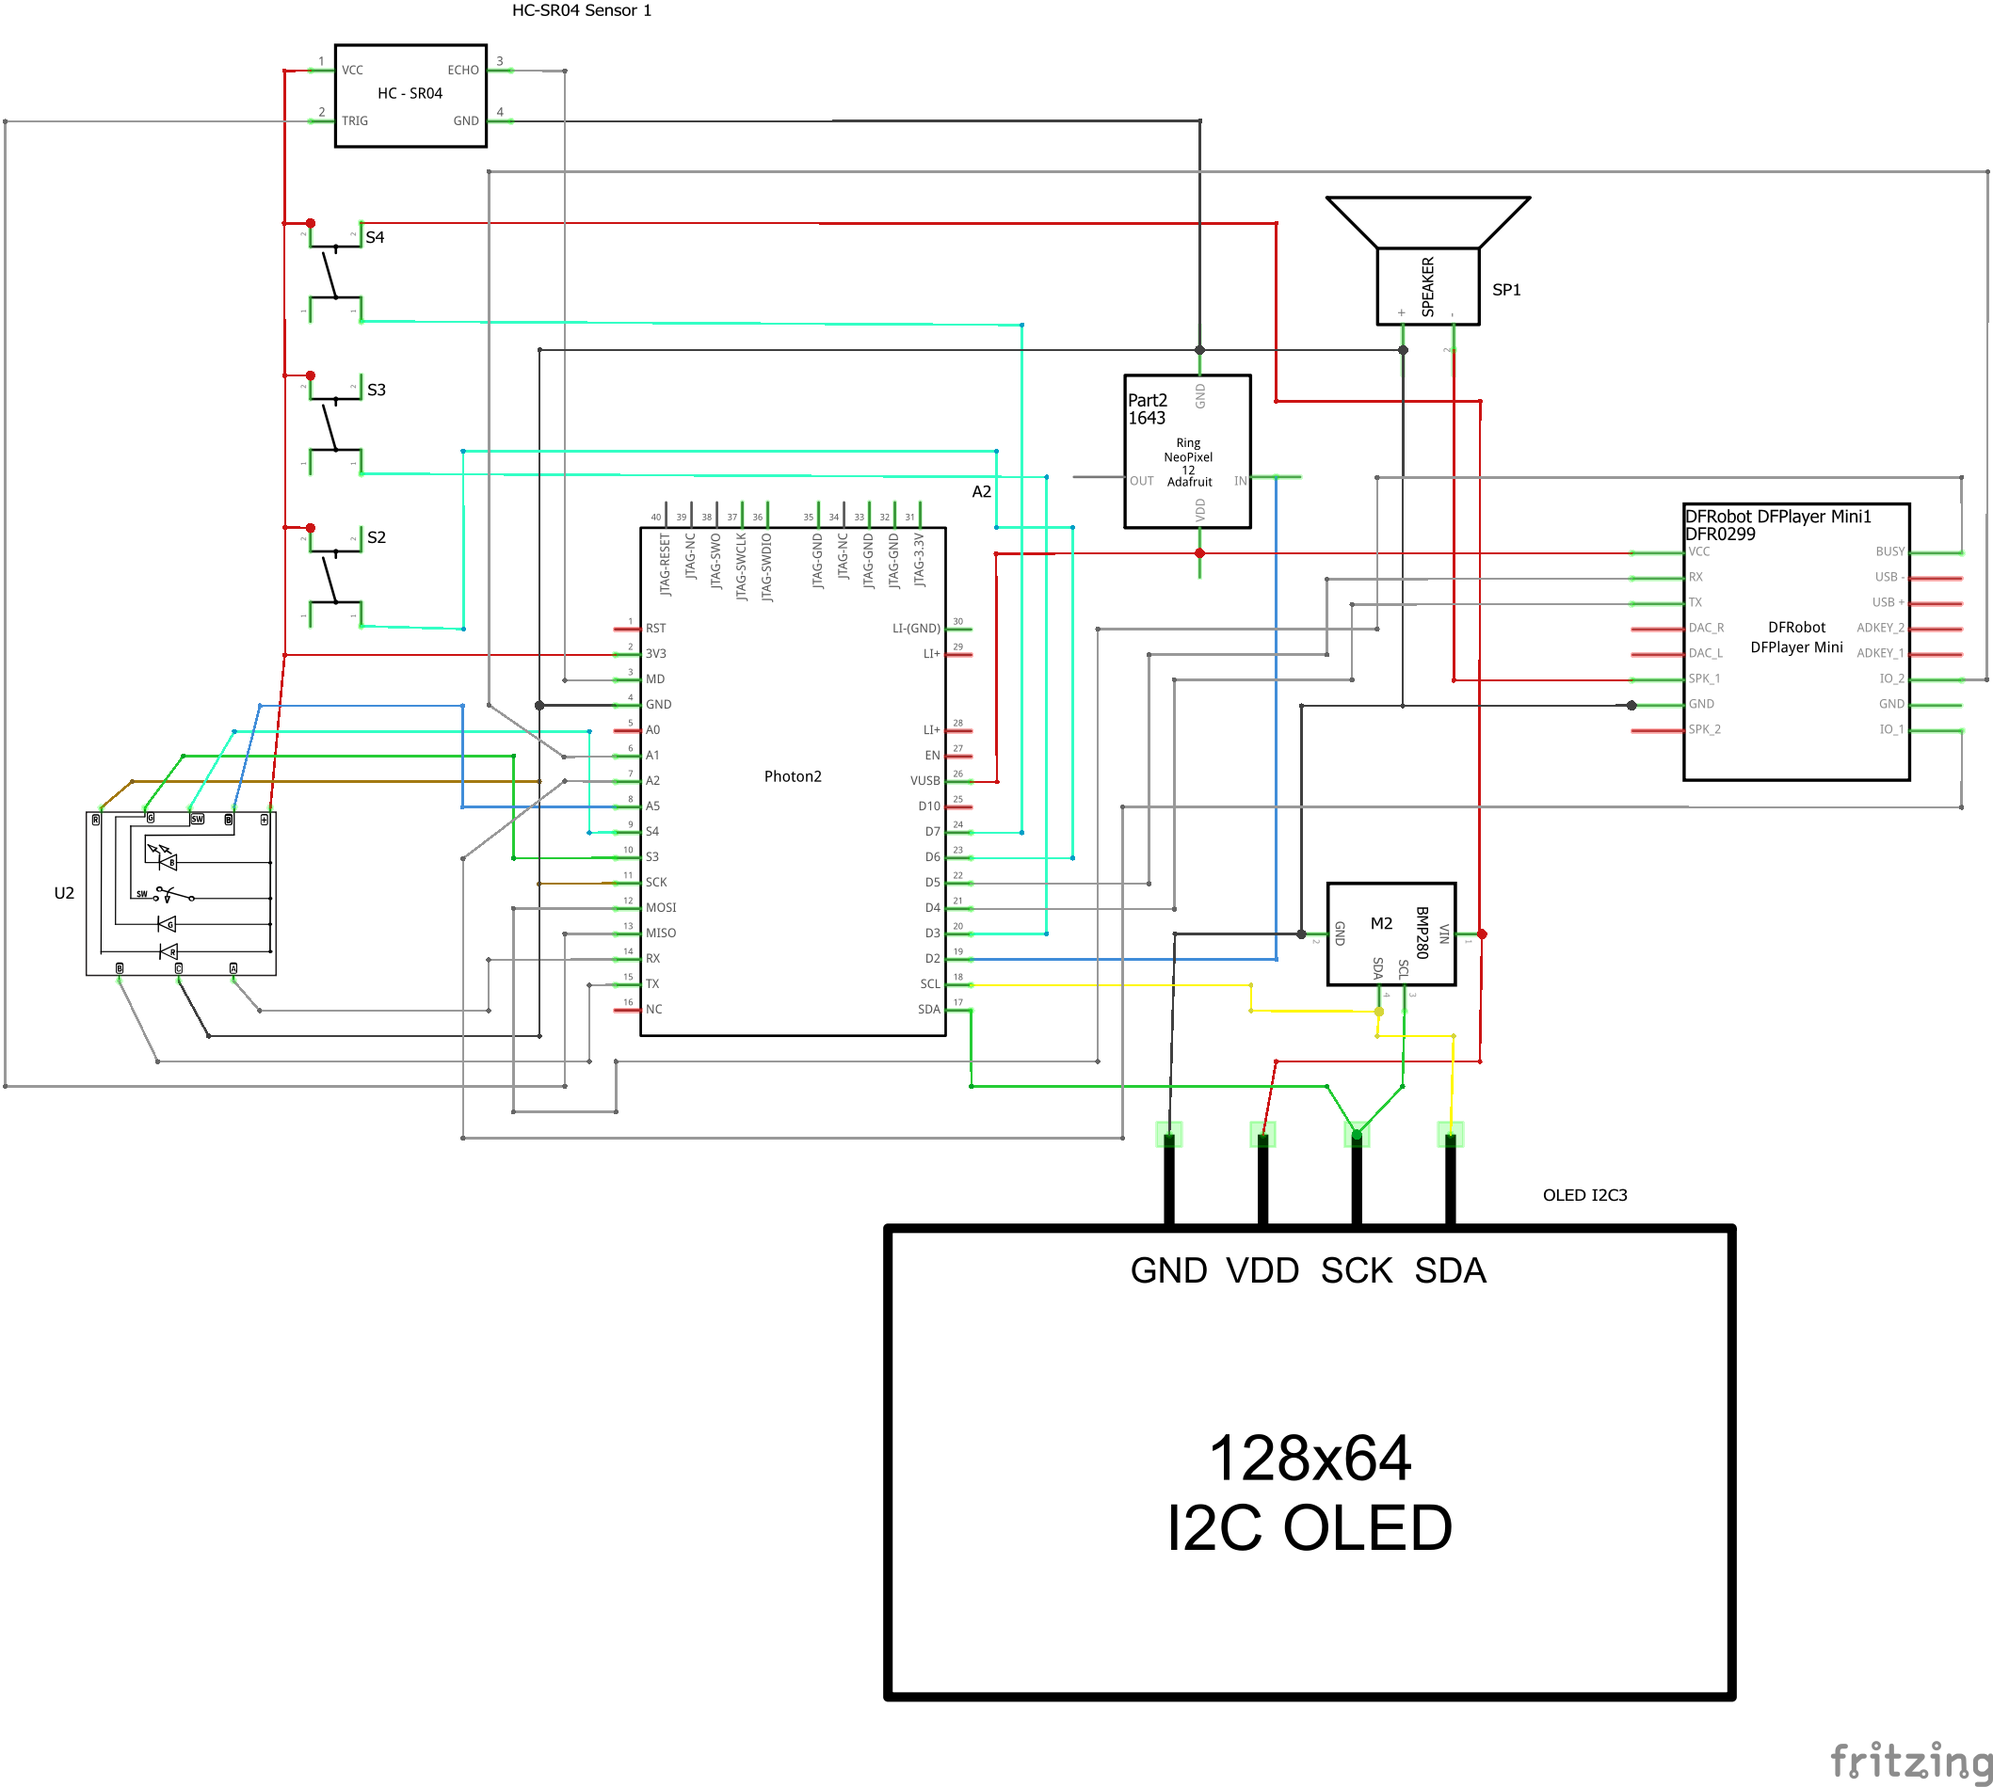
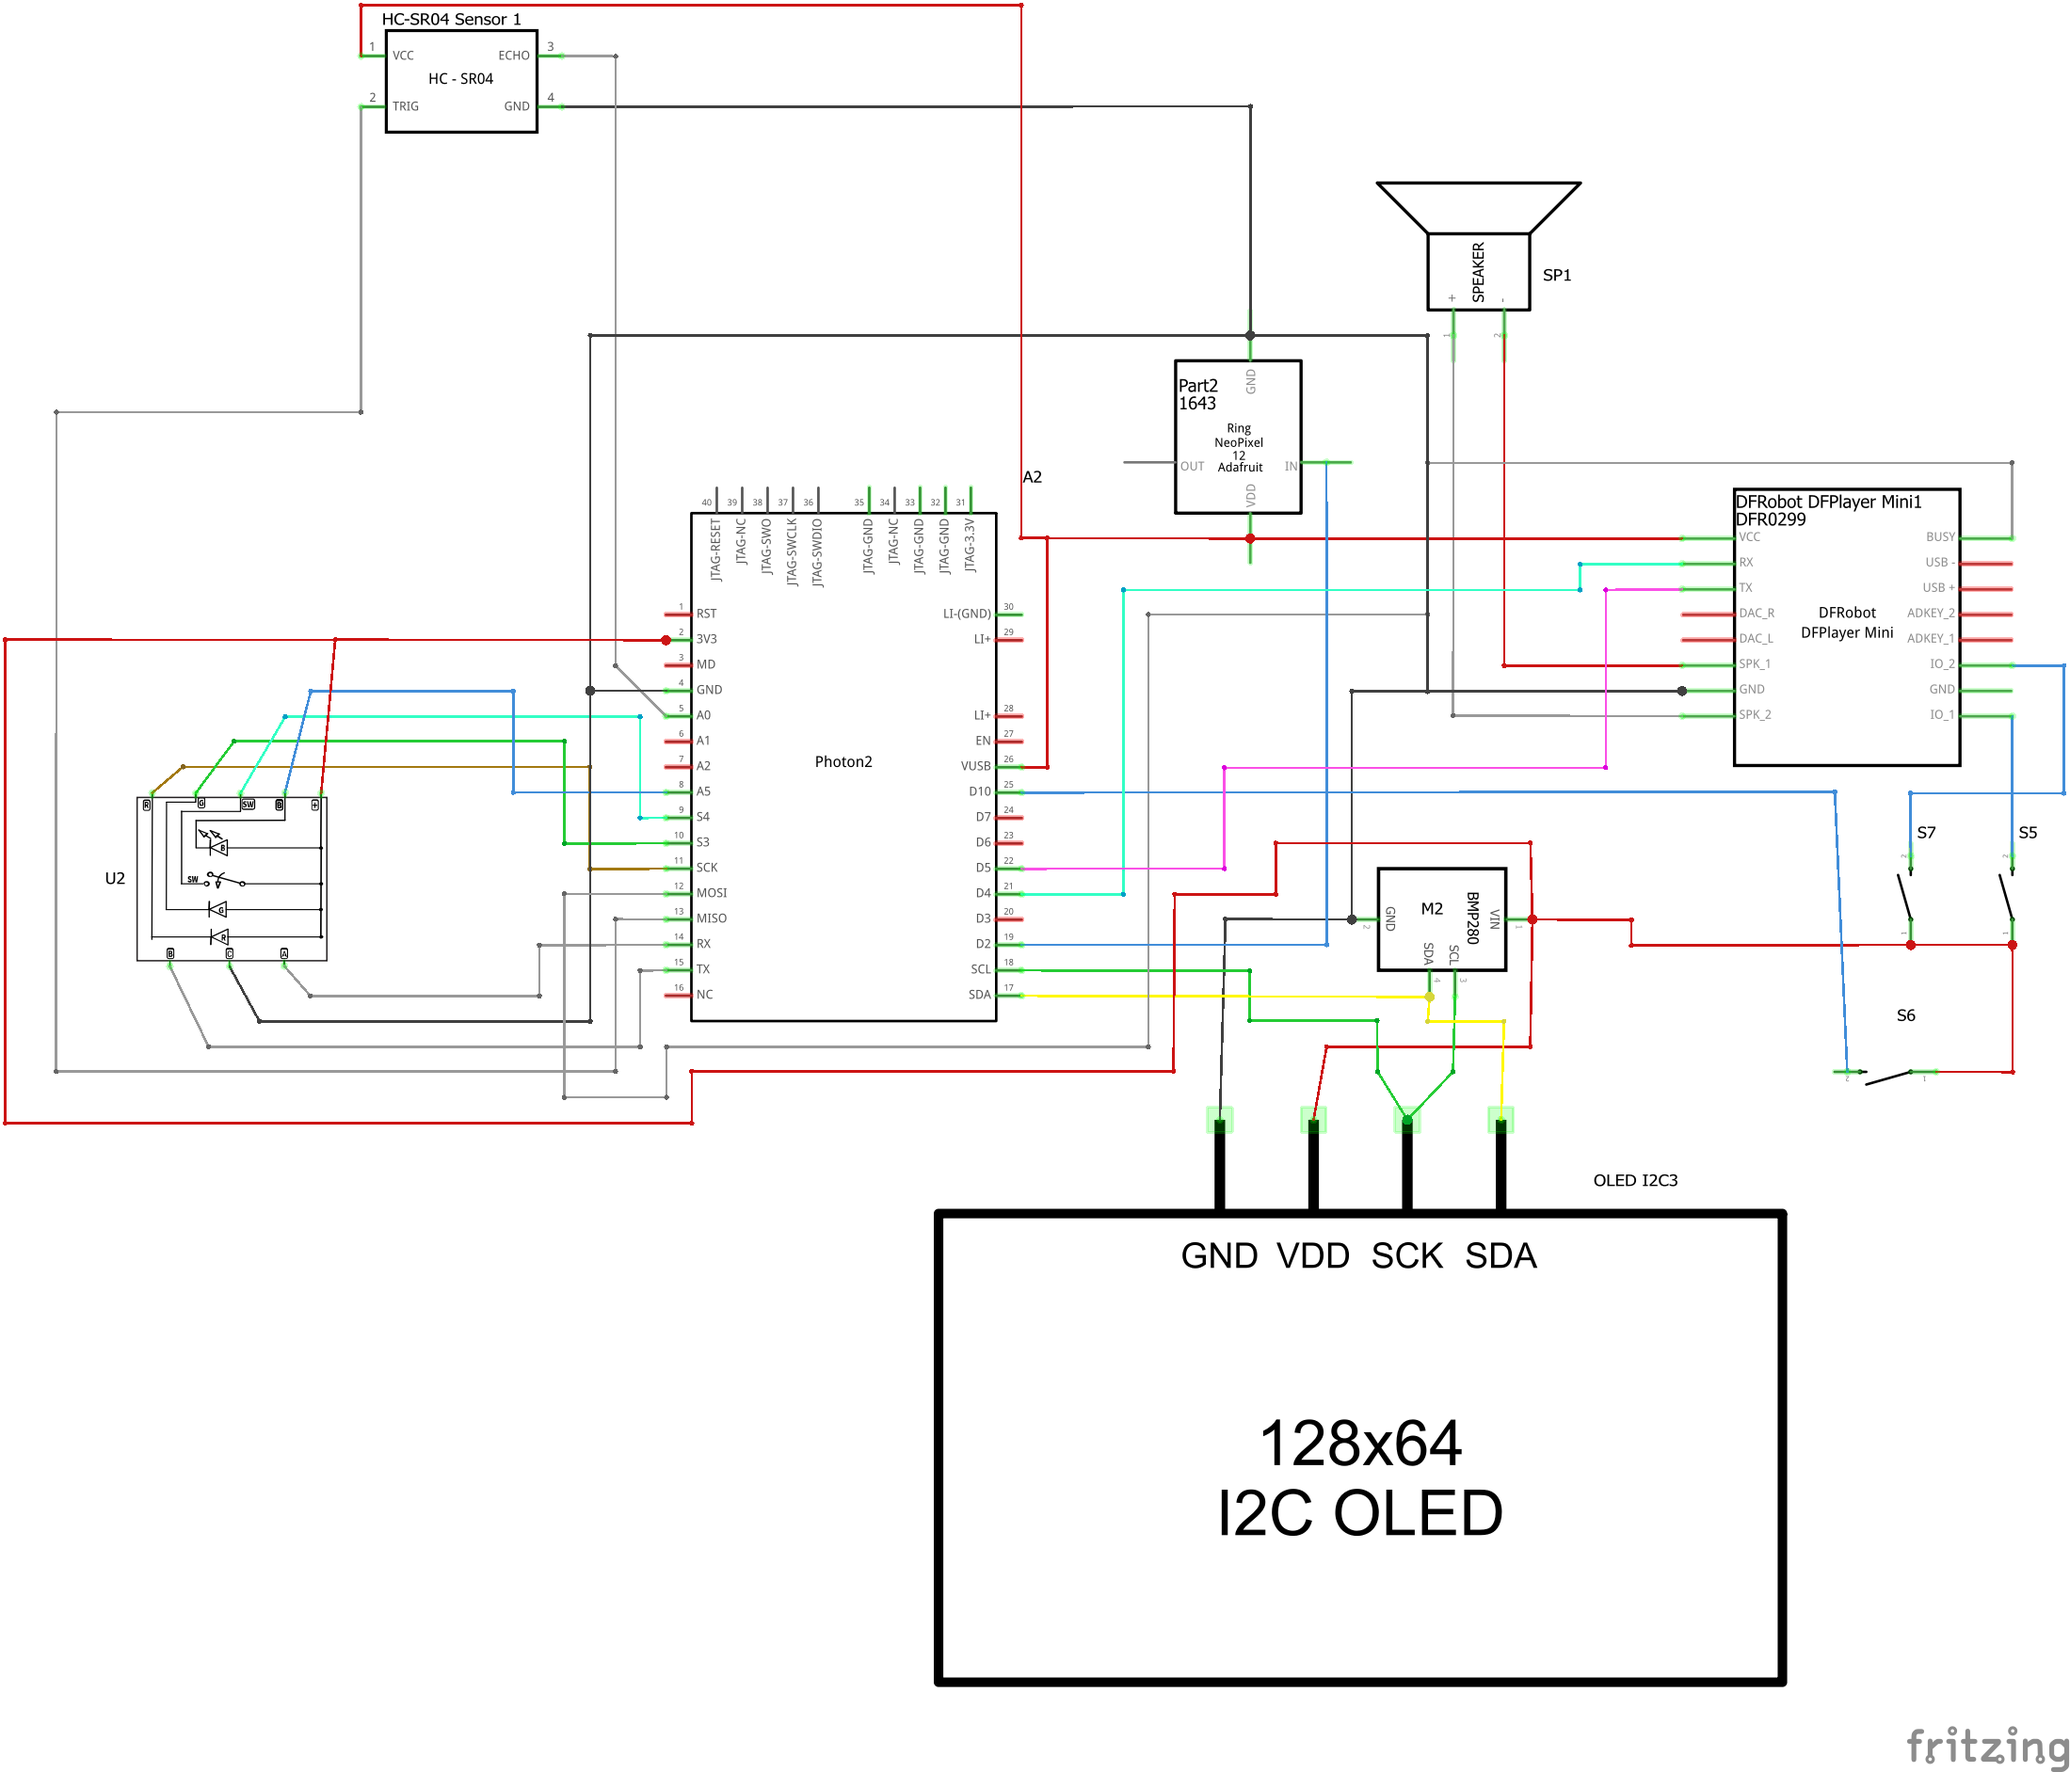
updated fritzing and schematics to better match the physical wiring.

diff --git a/midterm_remote/src/midterm_remote.cpp b/midterm_remote/src/midterm_remote.cpp
@@ -109,6 +109,7 @@ void loop() {
             cycleHueBulbs(blue, 0);
             wemoWrite(MYWEMO, LOW);
             wemoWrite(MYWEMO2, LOW);
+            wemoWrite(MYWEMO3, LOW);
             previousTimeSensor = currentTime;
         }
     }
@@ -155,8 +156,9 @@ void loop() {
             // turn on the wemos if temperature goes over 75 degrees farhenheight.
             if(tempFar > 75) {
                 if(wemoToggleState == false) {
-                    wemoWrite(MYWEMO, HIGH);
-                    wemoWrite(MYWEMO2, HIGH);
+                    wemoWrite(MYWEMO, LOW);
+                    wemoWrite(MYWEMO2, LOW);
+                    wemoWrite(MYWEMO3, HIGH);
                     wemoToggleState = !wemoToggleState;
                 }
             }
@@ -164,8 +166,9 @@ void loop() {
                 // turn the wemos off if temperature goes below 75 degrees farhenheight.
                 if(wemoToggleState == true) {
                     if(tempFar < 75) {
-                        wemoWrite(MYWEMO, LOW);
-                        wemoWrite(MYWEMO2, LOW);
+                        wemoWrite(MYWEMO, HIGH);
+                        wemoWrite(MYWEMO2, HIGH);
+                        wemoWrite(MYWEMO3, LOW);
                         wemoToggleState = !wemoToggleState;
                     }
                 }
@@ -255,8 +258,6 @@ void loop() {
                 }
             }
 
-            
-
             if(encoderInput != previousEncoderInput) {
                 // sets color based on temperature. Pure blue at 32 degrees farenheight, pure red at 100 degrees farenheight.
                 pixelFill(0, pixelCount, (color * 2) - 64, 0, 200 - (color * 2));
@@ -290,8 +291,6 @@ void loop() {
                     mp3Player.volume(mappedEncoderToVolume);
                 }
             }
-            
-            
 
             // prints data to the OLED display at 1 second intervals
             if((currentTime - previousTime2) > 1000) {
@@ -365,7 +364,7 @@ void checkEncoderPositionZero() {
 }
 
 void cycleHueBulbs(int playlistColor, float brightness) {
-    for(int i = 0; i < 5; i++) {
+    for(int i = 1; i <= 6; i++) {
         setHue(i, true, playlistColor, 255, 255);
     }
 }

diff --git a/midterm_remote/src/header_includes.h b/midterm_remote/src/header_includes.h
@@ -15,8 +15,6 @@ const int MP3BUSYPIN = D15;
 const int MP3TXPIN = D4;
 const int MP3RXPIN = D5;
 const int BUTTONPINSTARTSTOP = D10;
-const int BUTTONPINPREVIOUSSONG = A2;
-const int BUTTONPINNEXTSONG = A1;
 bool toggleStartStop = 1;
 bool togglePlaylist;
 unsigned int currentFolder;
@@ -24,14 +22,16 @@ unsigned int currentTrack;
 DFRobotDFPlayerMini mp3Player;
 
 Button buttonStartStop(BUTTONPINSTARTSTOP);
-Button mp3NextButton(BUTTONPINNEXTSONG);
-Button mp3BackButton(BUTTONPINPREVIOUSSONG);
 
 // Hue Bulb and Wemo constants, variable, objects
 const int BULB1 = 1;
 const int BULBALL[] = {1, 2, 3, 4, 5};
-const int MYWEMO = 2;
-const int MYWEMO2 = 3;
+// lava lamp
+const int MYWEMO = 0;
+// desk outlet
+const int MYWEMO2 = 1;
+// fan
+const int MYWEMO3 = 2;
 bool wemoToggleState = true;
 int color, previousColor; // match these to the mapped temperature.
 int playlistColor;
